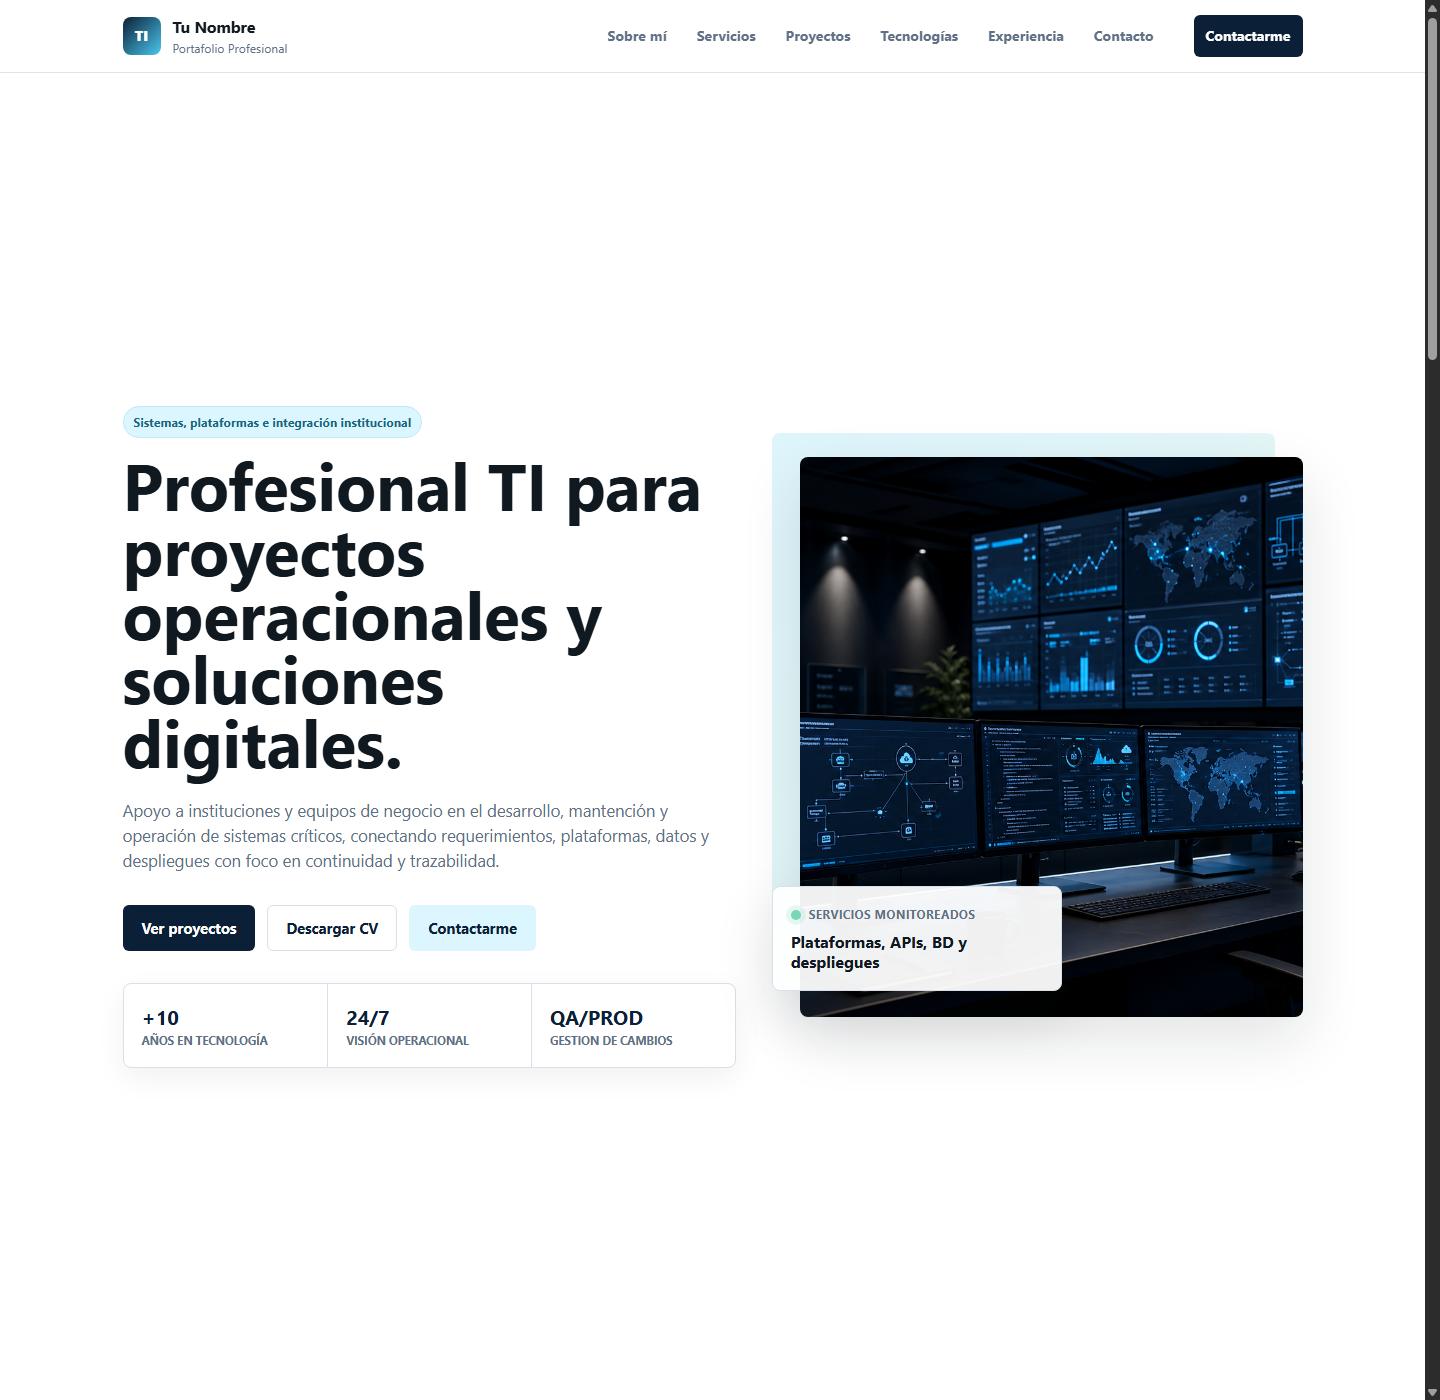
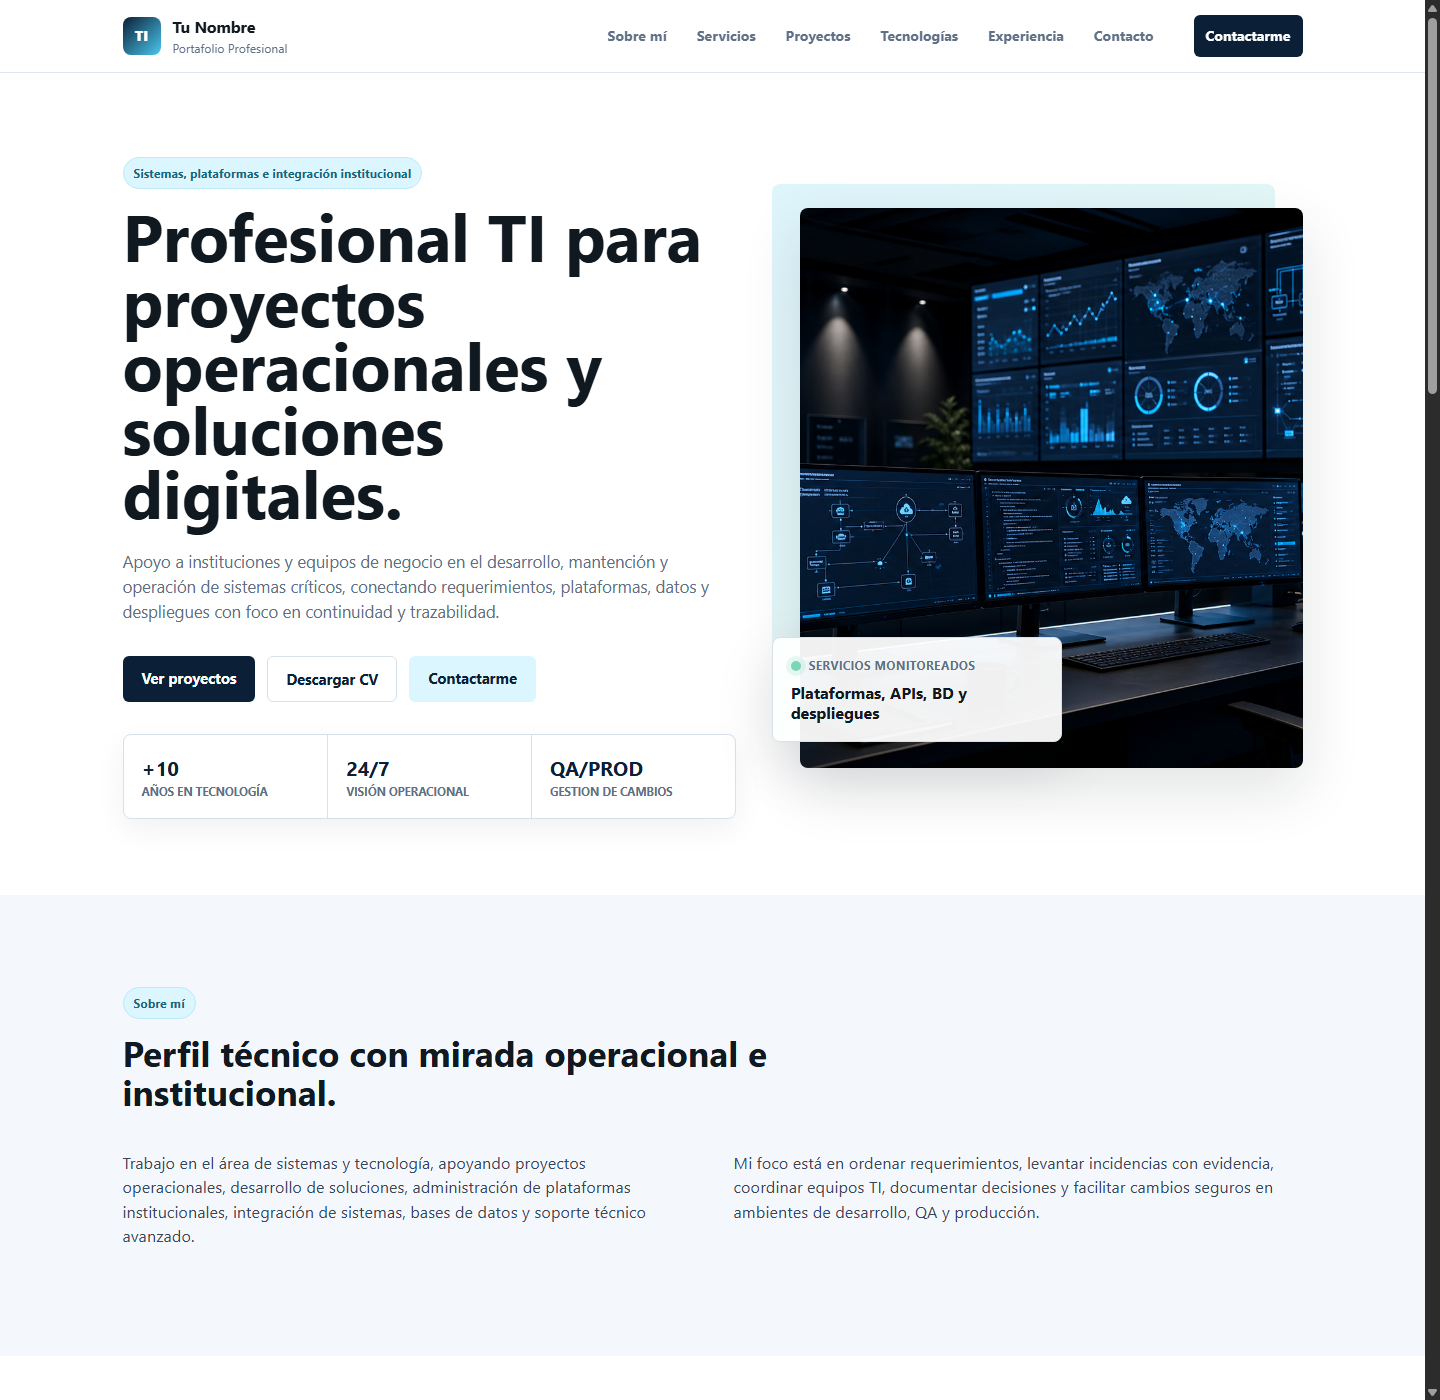
Prepare portfolio for publication

diff --git a/styles.css b/styles.css
@@ -26,6 +26,7 @@ body {
   background: var(--paper);
   font-family: Inter, ui-sans-serif, system-ui, -apple-system, BlinkMacSystemFont, "Segoe UI", sans-serif;
   line-height: 1.5;
+  overflow-x: hidden;
 }
 
 body.menu-open {
@@ -165,7 +166,9 @@ img {
   grid-template-columns: minmax(0, 1fr) minmax(420px, 0.82fr);
   gap: 64px;
   align-items: center;
-  min-height: calc(100vh - 72px);
+  min-height: auto;
+  padding-top: 84px;
+  padding-bottom: 76px;
 }
 
 .eyebrow {
@@ -193,6 +196,7 @@ h1 {
   font-size: 4.1rem;
   line-height: 0.98;
   letter-spacing: 0;
+  overflow-wrap: break-word;
 }
 
 h2 {
@@ -213,6 +217,14 @@ h3 {
   margin-bottom: 32px;
   color: var(--muted);
   font-size: 1.04rem;
+}
+
+.hero-content,
+.hero-visual,
+.contact-copy,
+.project-stack,
+.section-heading {
+  min-width: 0;
 }
 
 .hero-actions {
@@ -728,7 +740,7 @@ h3 {
   .nav-shell,
   .section,
   .site-footer {
-    width: min(100% - 28px, 720px);
+    width: min(calc(100% - 28px), 720px);
   }
 
   .nav-shell {
@@ -827,7 +839,7 @@ h3 {
   }
 
   h1 {
-    font-size: 2.42rem;
+    font-size: 2.14rem;
     line-height: 1.04;
   }
 

diff --git a/README.md b/README.md
@@ -1,0 +1,33 @@
+# Portafolio Profesional TI
+
+Maqueta web personal tipo portafolio/CV digital para un perfil de sistemas,
+tecnologia, plataformas institucionales, integracion, soporte avanzado y gestion
+de requerimientos.
+
+## Contenido
+
+- Presentacion profesional
+- Sobre mi
+- Areas de experiencia
+- Proyectos destacados
+- Tecnologias
+- Experiencia profesional
+- Contacto
+
+## Uso local
+
+Abrir `index.html` directamente en el navegador o levantar un servidor local:
+
+```bash
+node local-server.cjs
+```
+
+Luego visitar:
+
+```text
+http://127.0.0.1:8000/
+```
+
+## Publicacion
+
+Este proyecto es estatico y puede publicarse en GitHub Pages, Netlify o Vercel.